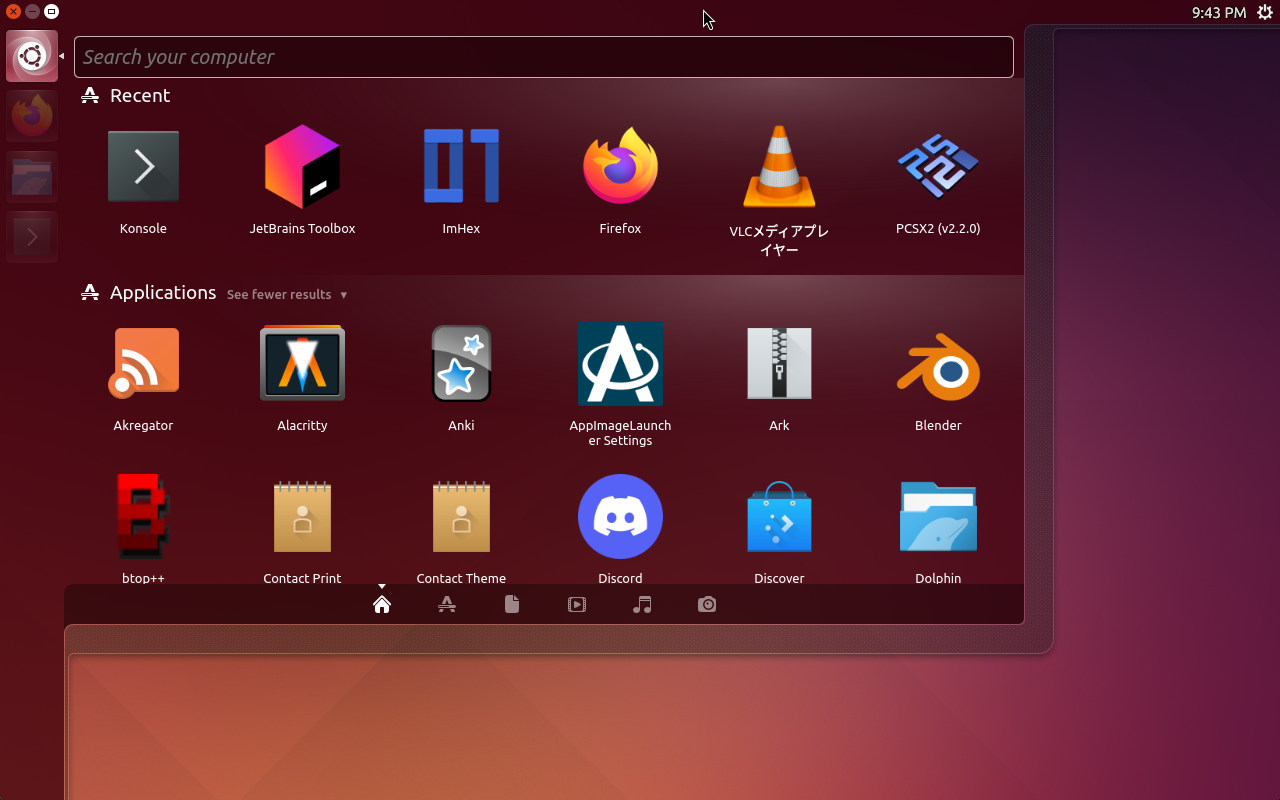
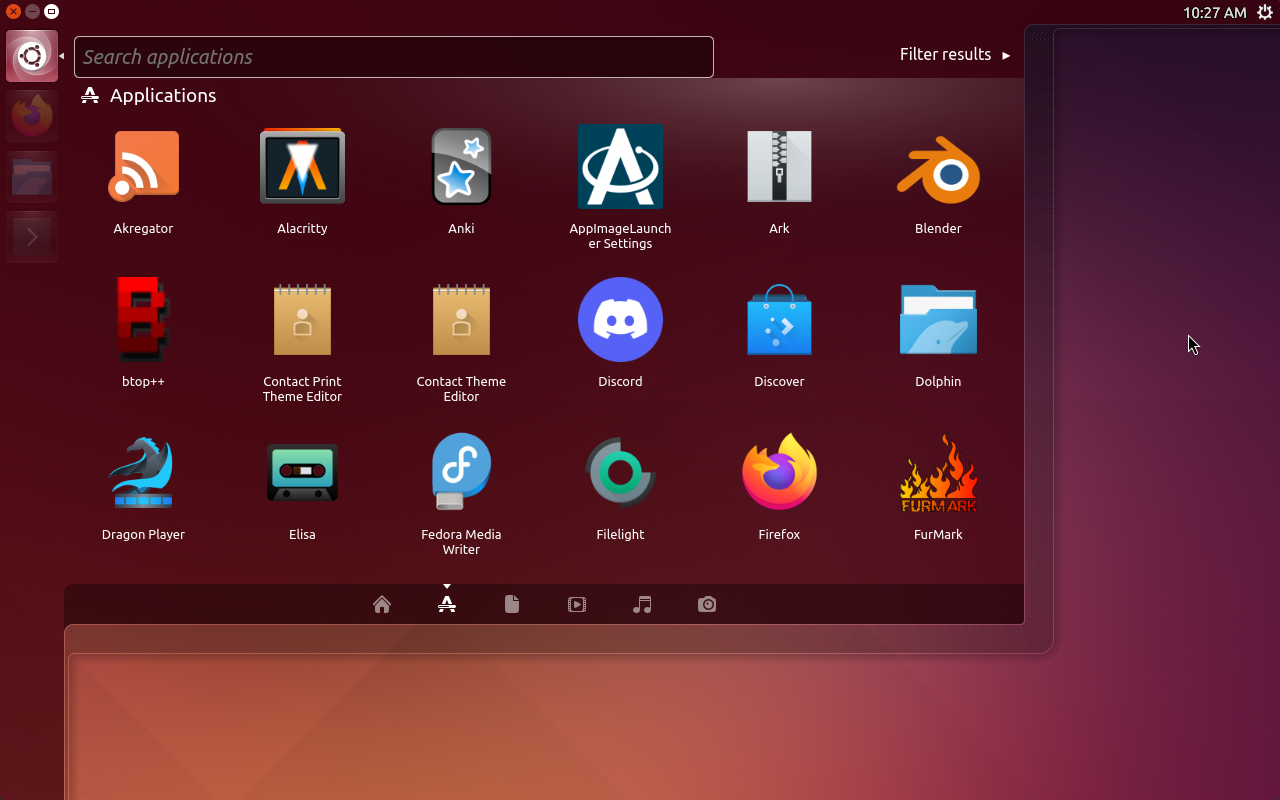
good enough "Filter results" button in dash
Better propaganda

diff --git a/modules/dash/DashSearch.qml b/modules/dash/DashSearch.qml
@@ -10,10 +10,61 @@ Item {
     property var placeholderText
 
     Rectangle {
+        id: hoverHighlight
+        color: "white"
+        radius: 3
+        anchors {
+            top: parent.top
+            left: searchBase.right
+            right: parent.right
+            bottom: parent.bottom
+            leftMargin: 6
+            rightMargin: 6
+            topMargin: 18
+            bottomMargin: 10
+        }
+        opacity: 0
+    }
+
+    Text {
+        id: headerText
+        anchors.fill: hoverHighlight
+        leftPadding: 8
+        text: "Filter results   ▸  "
+        color: "white"
+        font.family: "Ubuntu"
+        font.pointSize: 12
+        verticalAlignment: Text.AlignVCenter
+        horizontalAlignment: Text.AlignRight
+    }
+
+    MouseArea {
         anchors.fill: parent
-        anchors.topMargin: 12
-        anchors.leftMargin: 10
-        anchors.rightMargin: 10
+        hoverEnabled: true
+
+        onEntered: {
+            hoverHighlight.opacity = 0.25
+        }
+
+        onExited: {
+            hoverHighlight.opacity = 0
+        }
+
+        onClicked: {
+            root.clicked();
+        }
+    }
+
+    Rectangle {
+        id: searchBase
+        anchors {
+            top: parent.top
+            left: parent.left
+            bottom: parent.bottom
+            topMargin: 12
+            leftMargin: 10
+            rightMargin: 10
+        }
 
         TextField {
             id: searchbox
@@ -40,6 +91,6 @@ Item {
         radius: 5
         border.color: "#B0ffffff"
         border.width: 1
-        implicitWidth: parent.width * (1 / 1.61803398875)
+        implicitWidth: parent.width * (1 / 1.5)
     }
 }
